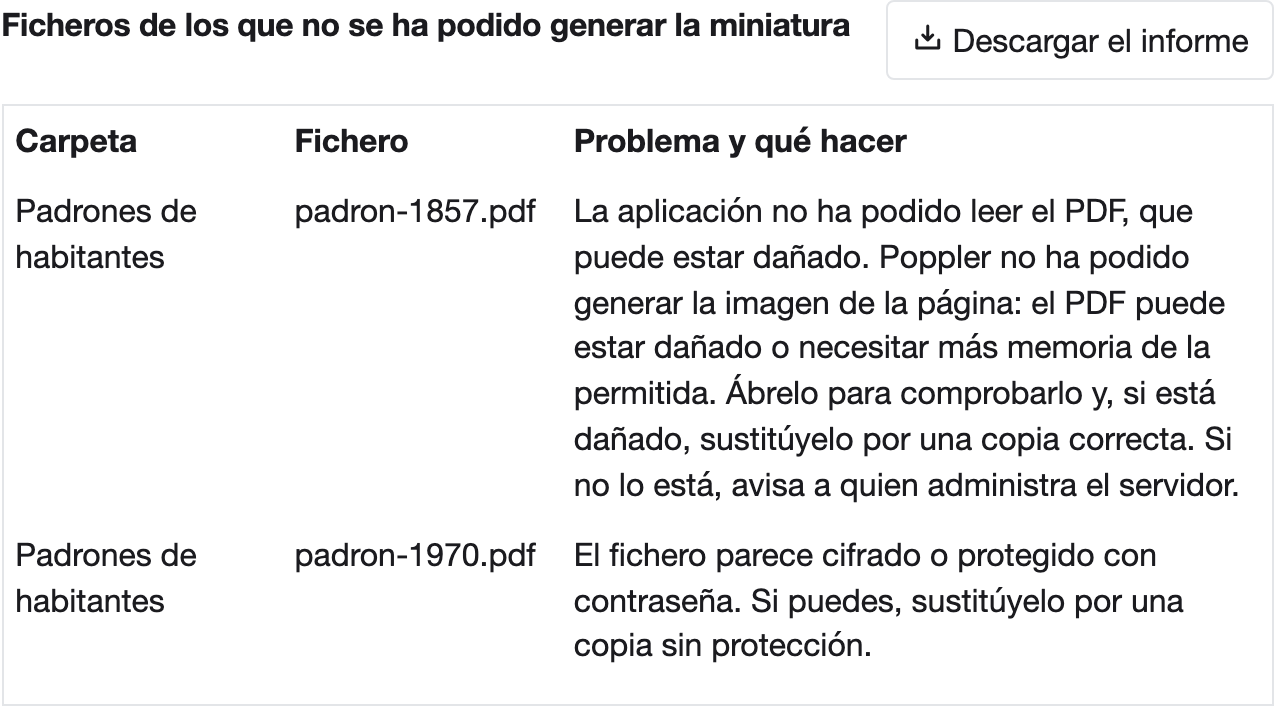
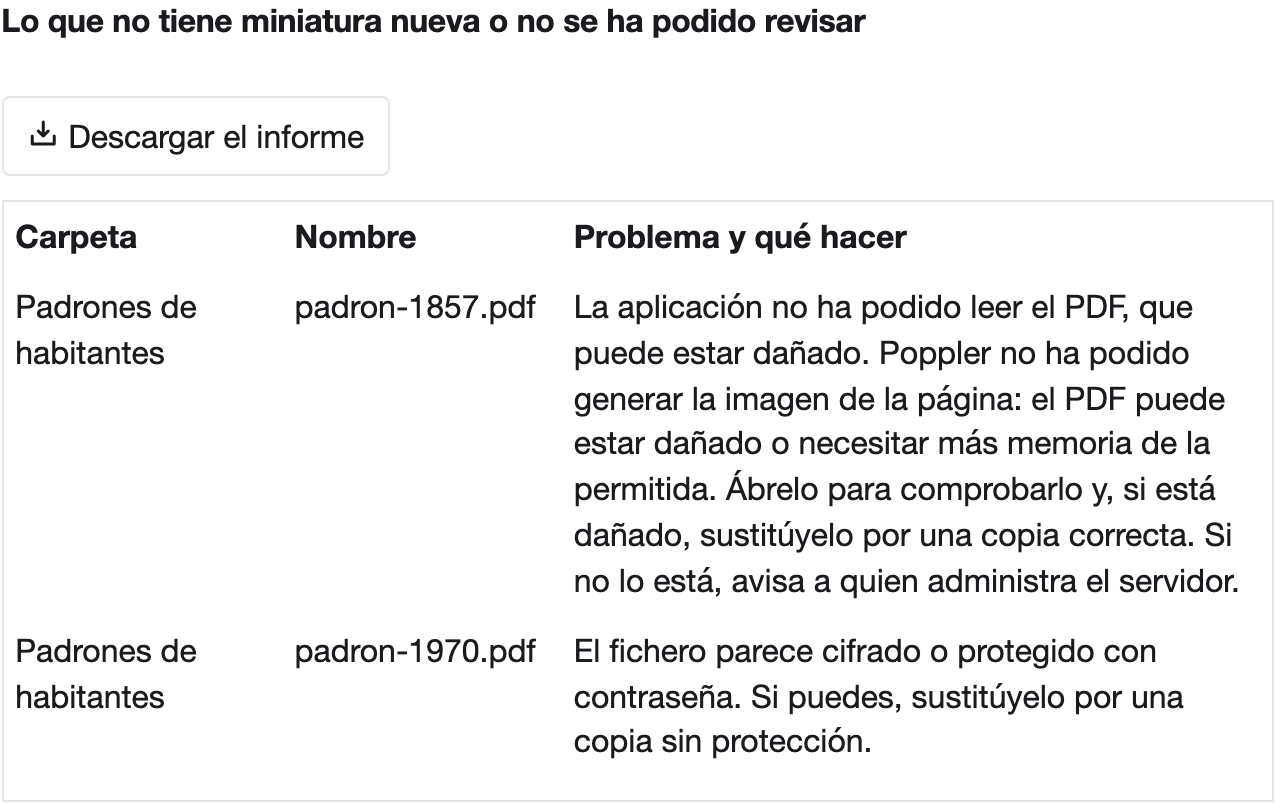
docs(user-guide): ver una carpeta con algo que no se puede abrir

diff --git a/docs/user-guide/unreadable-folder-entries.md b/docs/user-guide/unreadable-folder-entries.md
@@ -1,0 +1,21 @@
+# Ver una carpeta con algo que no se puede abrir
+
+A veces una carpeta del gestor de digitalizaciones tiene dentro algo que la aplicación no puede abrir. Suele ser un enlace
+que alguien ha puesto en el disco del servidor y que ya no lleva a ningún sitio, o que lleva a sí mismo, a la carpeta
+donde está o a una que la contiene, de modo que abrirlo daría vueltas sobre lo mismo. La carpeta se
+abre igual: ves todo lo demás que contiene y, encima de la lista, un aviso que nombra lo que no se puede abrir y por qué.
+Por ejemplo, si `escaneos-2019` es un enlace a una carpeta que se borró, el aviso dice que no se puede abrir porque es un
+enlace a algo que ya no existe.
+
+Lo que nombra el aviso no está en el disco como un fichero normal, así que no lo puedes arreglar desde el gestor. Pide a
+quien administra el servidor que lo revise. Mientras tanto puedes seguir trabajando con el resto de la carpeta, y sus
+subcarpetas siguen en el árbol de la izquierda.
+
+Con **Todo el contenido**, el aviso nombra lo que no se puede abrir en la carpeta y en todas las que cuelgan de ella. Si son
+más de diez, nombra los diez primeros y dice cuántos más hay.
+
+Si lo que no se puede abrir es la carpeta entera, el gestor dice «No se ha podido cargar el contenido de la
+carpeta». Eso también lo resuelve quien administra el servidor.
+
+Al regenerar las miniaturas, lo que no se puede abrir sale en el resultado con su motivo ([Regenerar las
+miniaturas](regenerate-thumbnails.md)).

diff --git a/docs/user-guide/regenerate-thumbnails.md b/docs/user-guide/regenerate-thumbnails.md
@@ -56,6 +56,10 @@ no ha tocado. El trabajo queda también en **Tareas de larga duración**, como *
 Si alguna carpeta del almacén no se ha podido abrir, la regeneración sigue con las demás y el resultado dice cuántas son. Sus
 digitalizaciones no se han revisado: avisa a quien administra el servidor.
 
+Si dentro de una carpeta hay algo que no se puede abrir, como un enlace a un fichero que ya no existe o un enlace que lleva a
+sí mismo, a la carpeta donde está o a una que la contiene, la regeneración revisa el resto de esa carpeta. El resultado dice cuántos son, y la lista de abajo y el informe los
+nombran con su carpeta y el motivo. Pide a quien administra el servidor que los revise.
+
 Si el almacén de digitalizaciones de la instalación es de solo lectura, la página lo avisa y no ofrece el botón.
 
 ## Detenerla y seguir después
